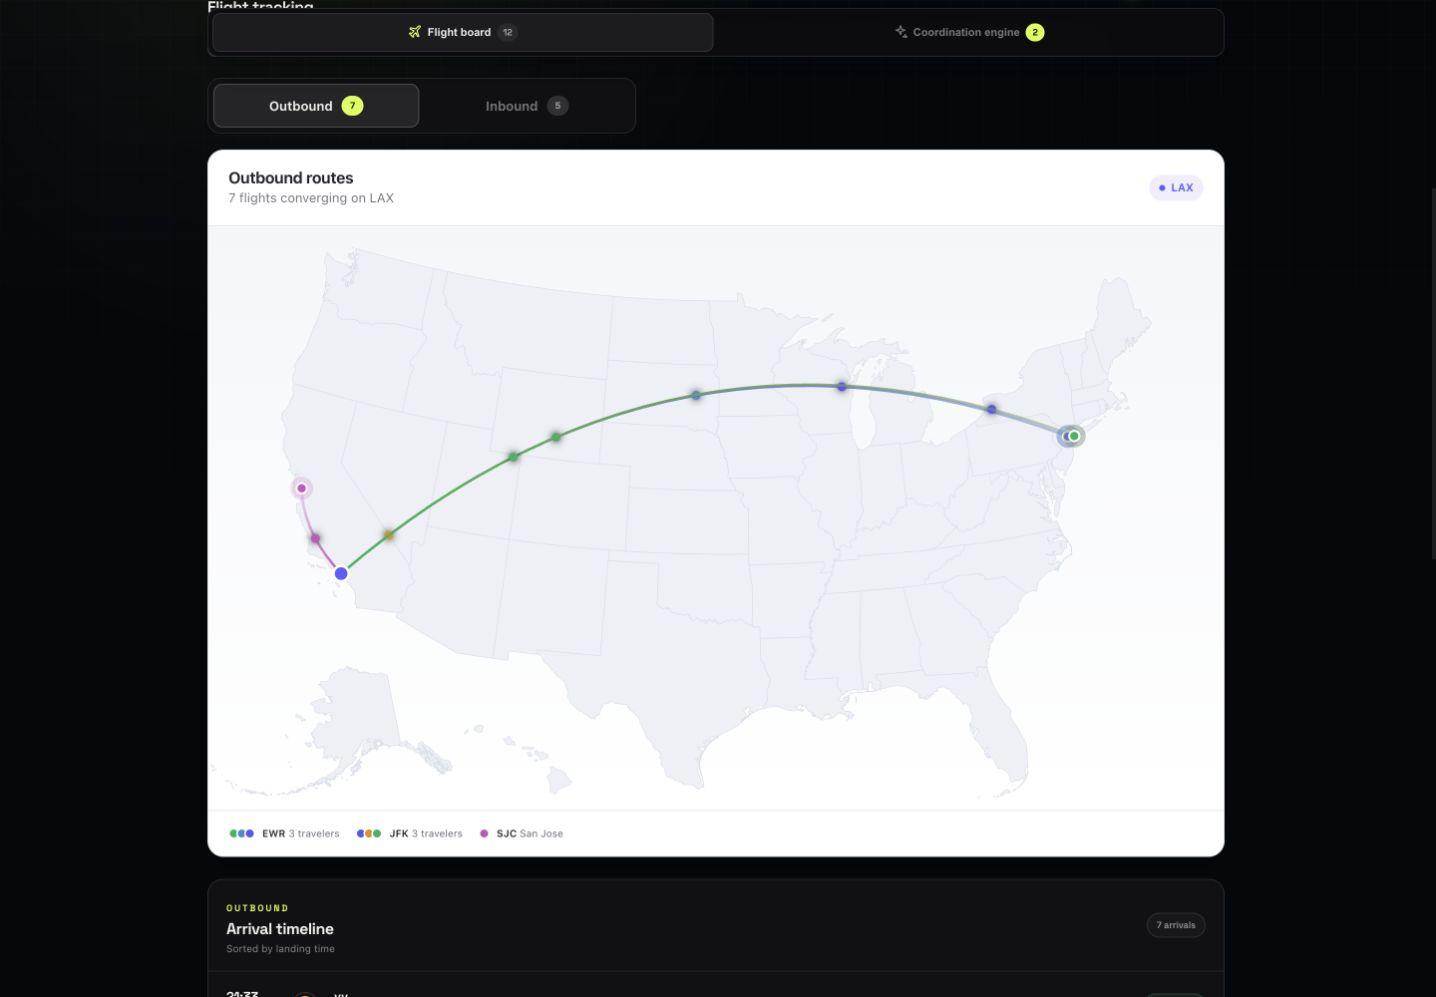
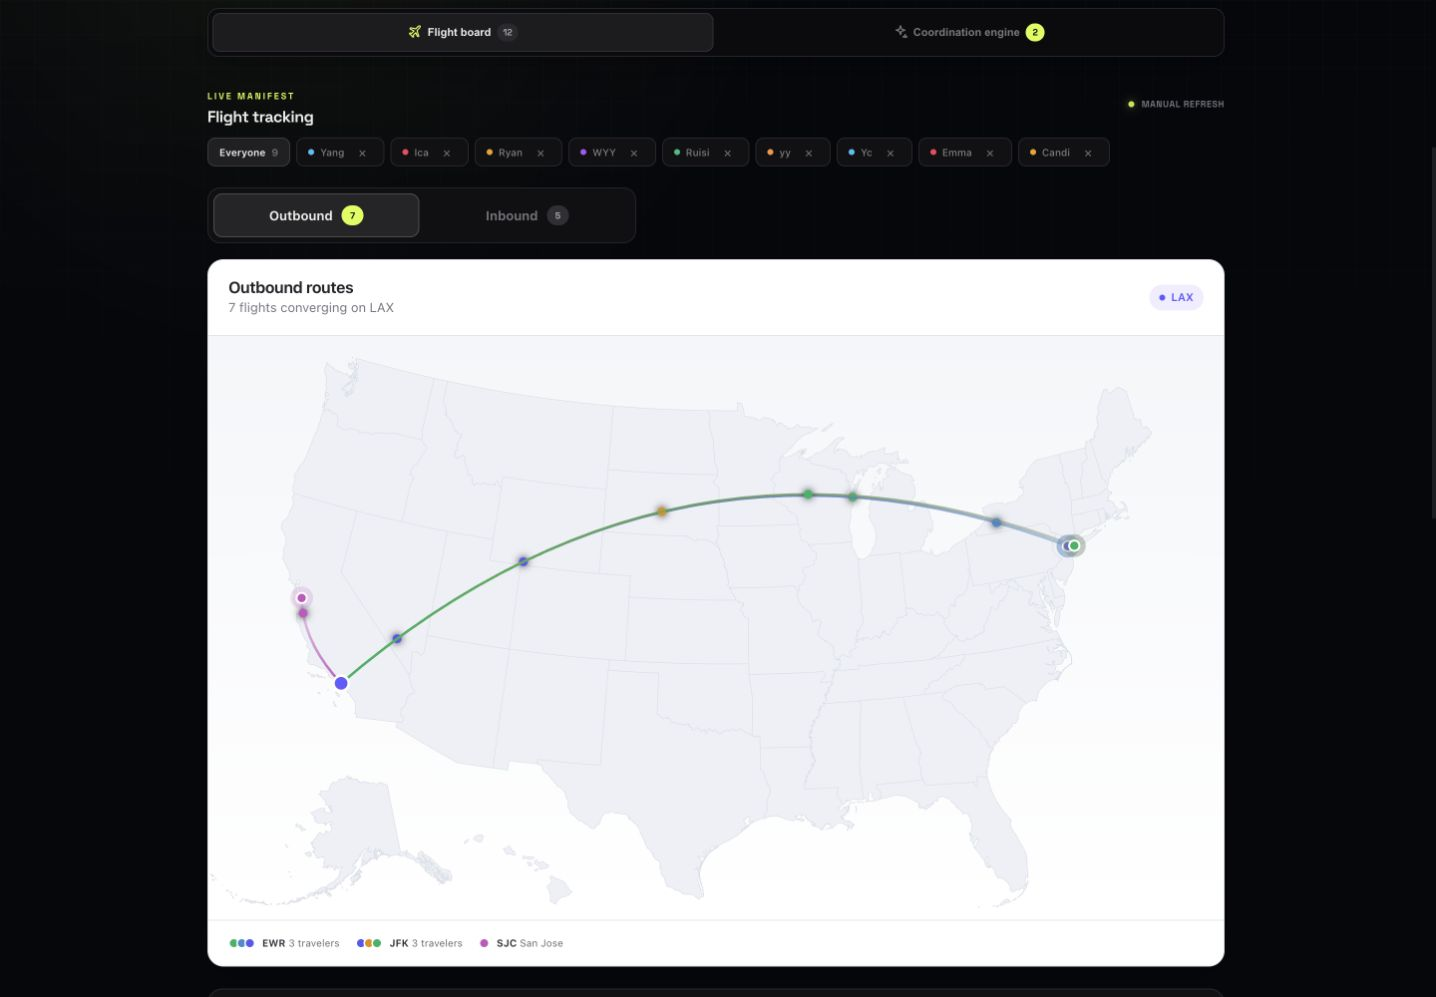
expand product readme and polish screenshots

diff --git a/README.md b/README.md
@@ -1,28 +1,56 @@
 <div align="center">
   <img src="public/icons/icon-192.png" width="72" alt="PPC app icon" />
   <h1>PPC: Delay No More</h1>
-  <p>A shared flight dashboard for getting the whole group to the same place—without the spreadsheet chaos.</p>
-  <p><a href="https://ppc-tripflights.vercel.app/">Open the live app</a></p>
+  <p><strong>One shared flight dashboard for the whole trip.</strong></p>
+  <p>Track every traveler, compare arrival times, coordinate missing flights, and keep the group moving without spreadsheets or message-thread chaos.</p>
+  <p><a href="https://ppc-tripflights.vercel.app/">Open the live app →</a></p>
 </div>
 
-![PPC flight board with route map and arrival timeline](docs/dashboard-flight-board.jpg)
+## How it works
 
-## Core features
+1. **Create or join a trip** with a six-digit invitation PIN.
+2. **Add each traveler's flights** and keep the shared board up to date.
+3. **Use the map, timeline, and coordination engine** to see when everyone arrives and what still needs attention.
 
-- **Shared flight board** — keep every traveler's flight, status, time, gate, and terminal in one trip.
-- **Route map & arrival timeline** — see where everyone is coming from and when they land.
-- **Inbound / outbound views** — switch direction without losing the context for each traveler.
-- **Coordination engine** — surface missing bookings and the group details that still need attention.
-- **Live calendar subscription** — subscribe from Apple Calendar, Google Calendar, or Outlook and receive updated flight information.
-- **Simple trip sharing** — invite the group with a six-digit PIN; no account setup required.
+## Flight board
 
-## Mobile friendly
+The main board brings the entire trip into one view:
 
-The dashboard is designed for quick checks while traveling, with compact timelines and expandable traveler details.
+- Filter by traveler or switch between outbound and inbound flights.
+- Follow every route on a shared animated map.
+- See group readiness, landed travelers, arrival spread, and missing bookings at a glance.
+- Refresh live flight status without opening every airline website.
+
+![PPC flight board with traveler filters, route map, and direction tabs](docs/dashboard-flight-board.jpg)
+
+## Arrival timeline & traveler details
+
+Flights are sorted by landing time so the group can immediately see who arrives first, who lands next, and how far apart the arrivals are. Each traveler card expands to show route, local times, status, gate, and arrival terminal.
 
 <p align="center">
   <img src="docs/mobile-arrival-timeline.jpg" width="390" alt="PPC mobile arrival timeline and traveler details" />
 </p>
+
+## Coordination engine
+
+The coordination engine focuses on the people who are not fully booked yet. Choose a traveler and origin airport, then compare round-trip options against the rest of the group's arrival pattern. Matching flights can be reviewed and added back to the shared trip.
+
+![PPC coordination engine with group flight options](docs/coordination-engine.jpg)
+
+## Live calendar subscription
+
+Subscribe once from Apple Calendar, Google Calendar, or Outlook. The calendar feed reads the latest shared flight information—including schedule, status, route, traveler, and terminals—whenever the calendar provider refreshes it.
+
+<p align="center">
+  <img src="docs/calendar-subscription.jpg" width="720" alt="PPC live calendar subscription options" />
+</p>
+
+## Built for group travel
+
+- **Shared by default:** everyone in the trip sees the same flights and traveler list.
+- **Fast on mobile:** compact controls, clear status labels, and expandable cards work well at the airport.
+- **Installable PWA:** add PPC to a phone or desktop for app-like access.
+- **Private trip link:** access stays behind the trip PIN and its private calendar subscription URL.
 
 ## Run locally
 
@@ -34,4 +62,8 @@ cp .env.example .env
 npm run dev
 ```
 
-Built with Vite, Supabase, React, and a lightweight PWA shell.
+Copy `.env.example` to `.env`, then add the Supabase project values used by your deployment.
+
+### Stack
+
+Vite · Supabase · React · React Simple Maps · PWA
